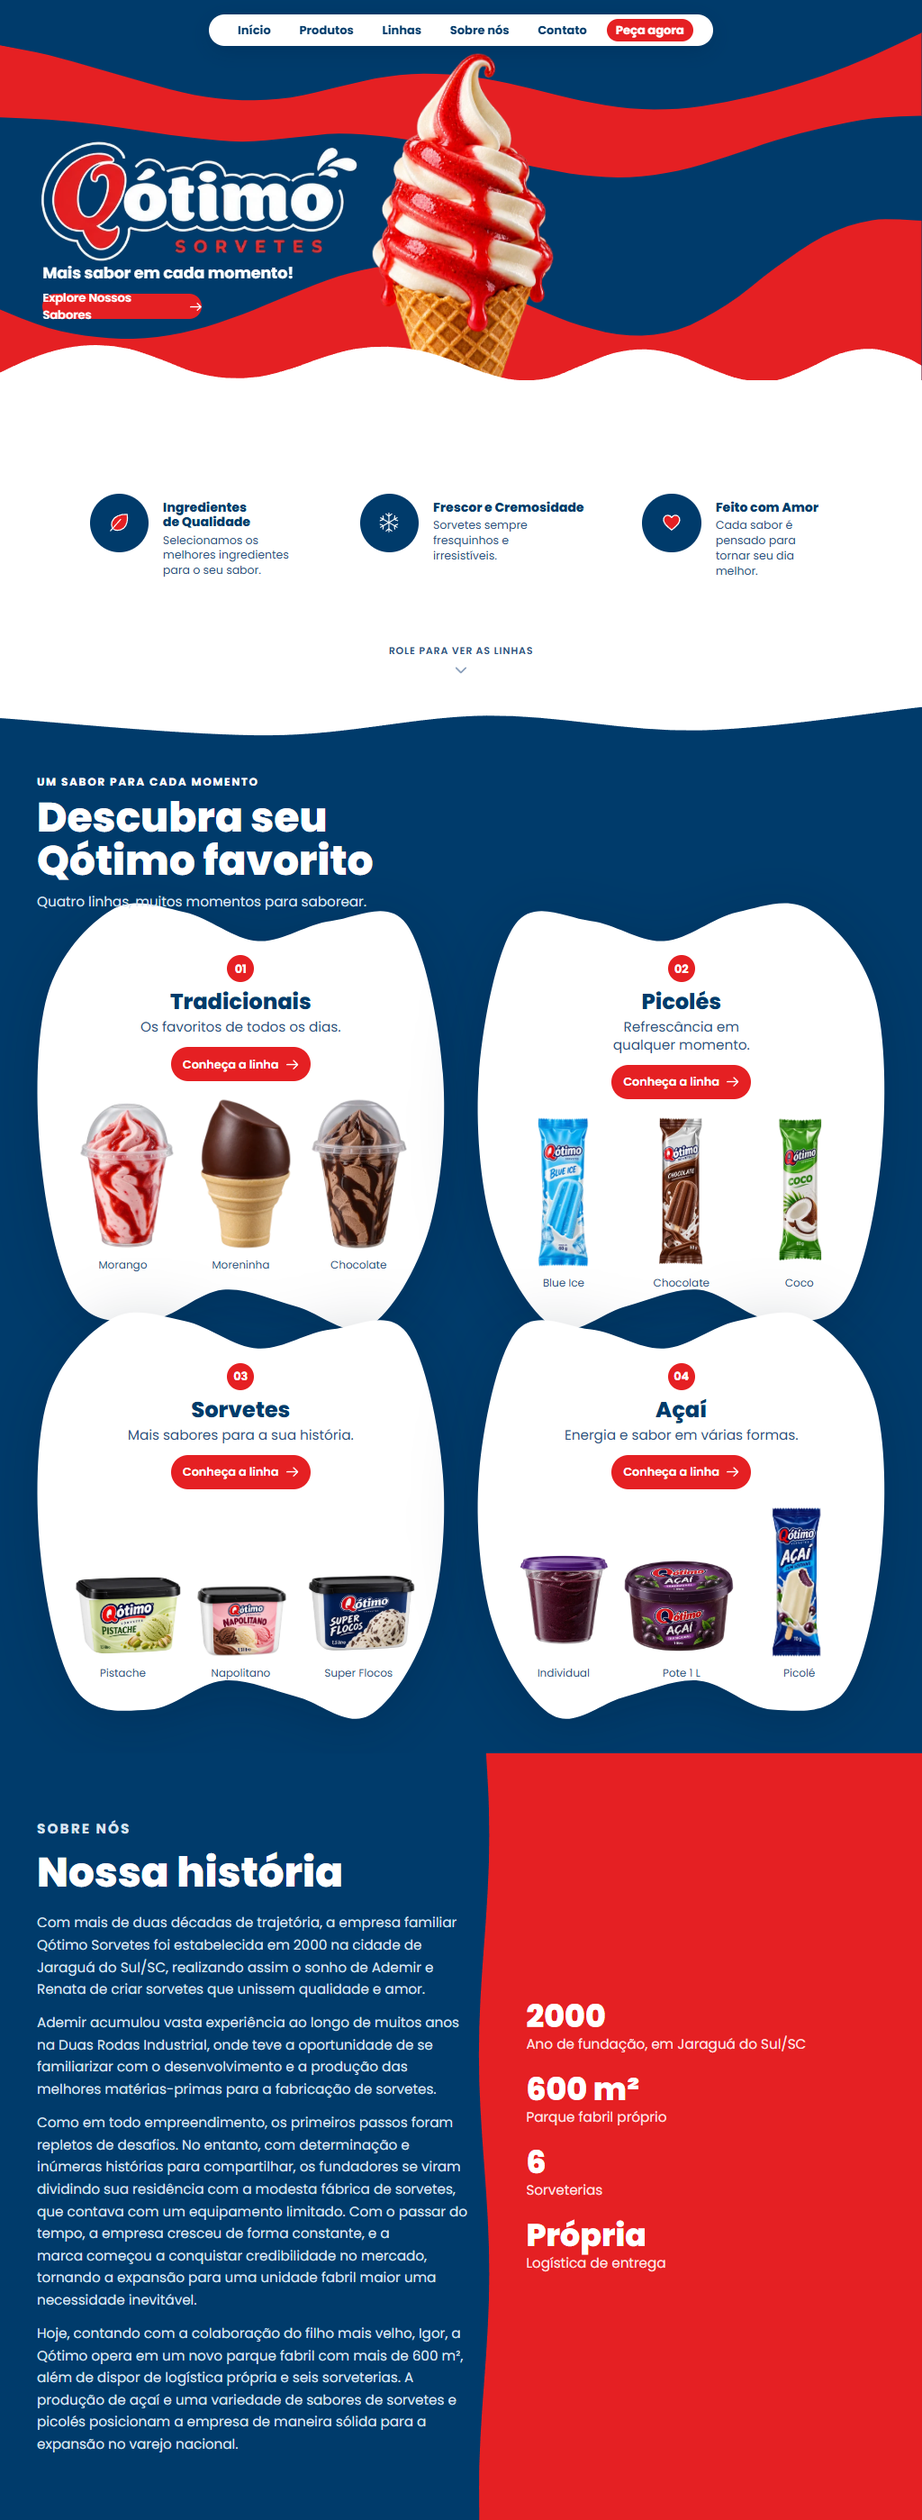
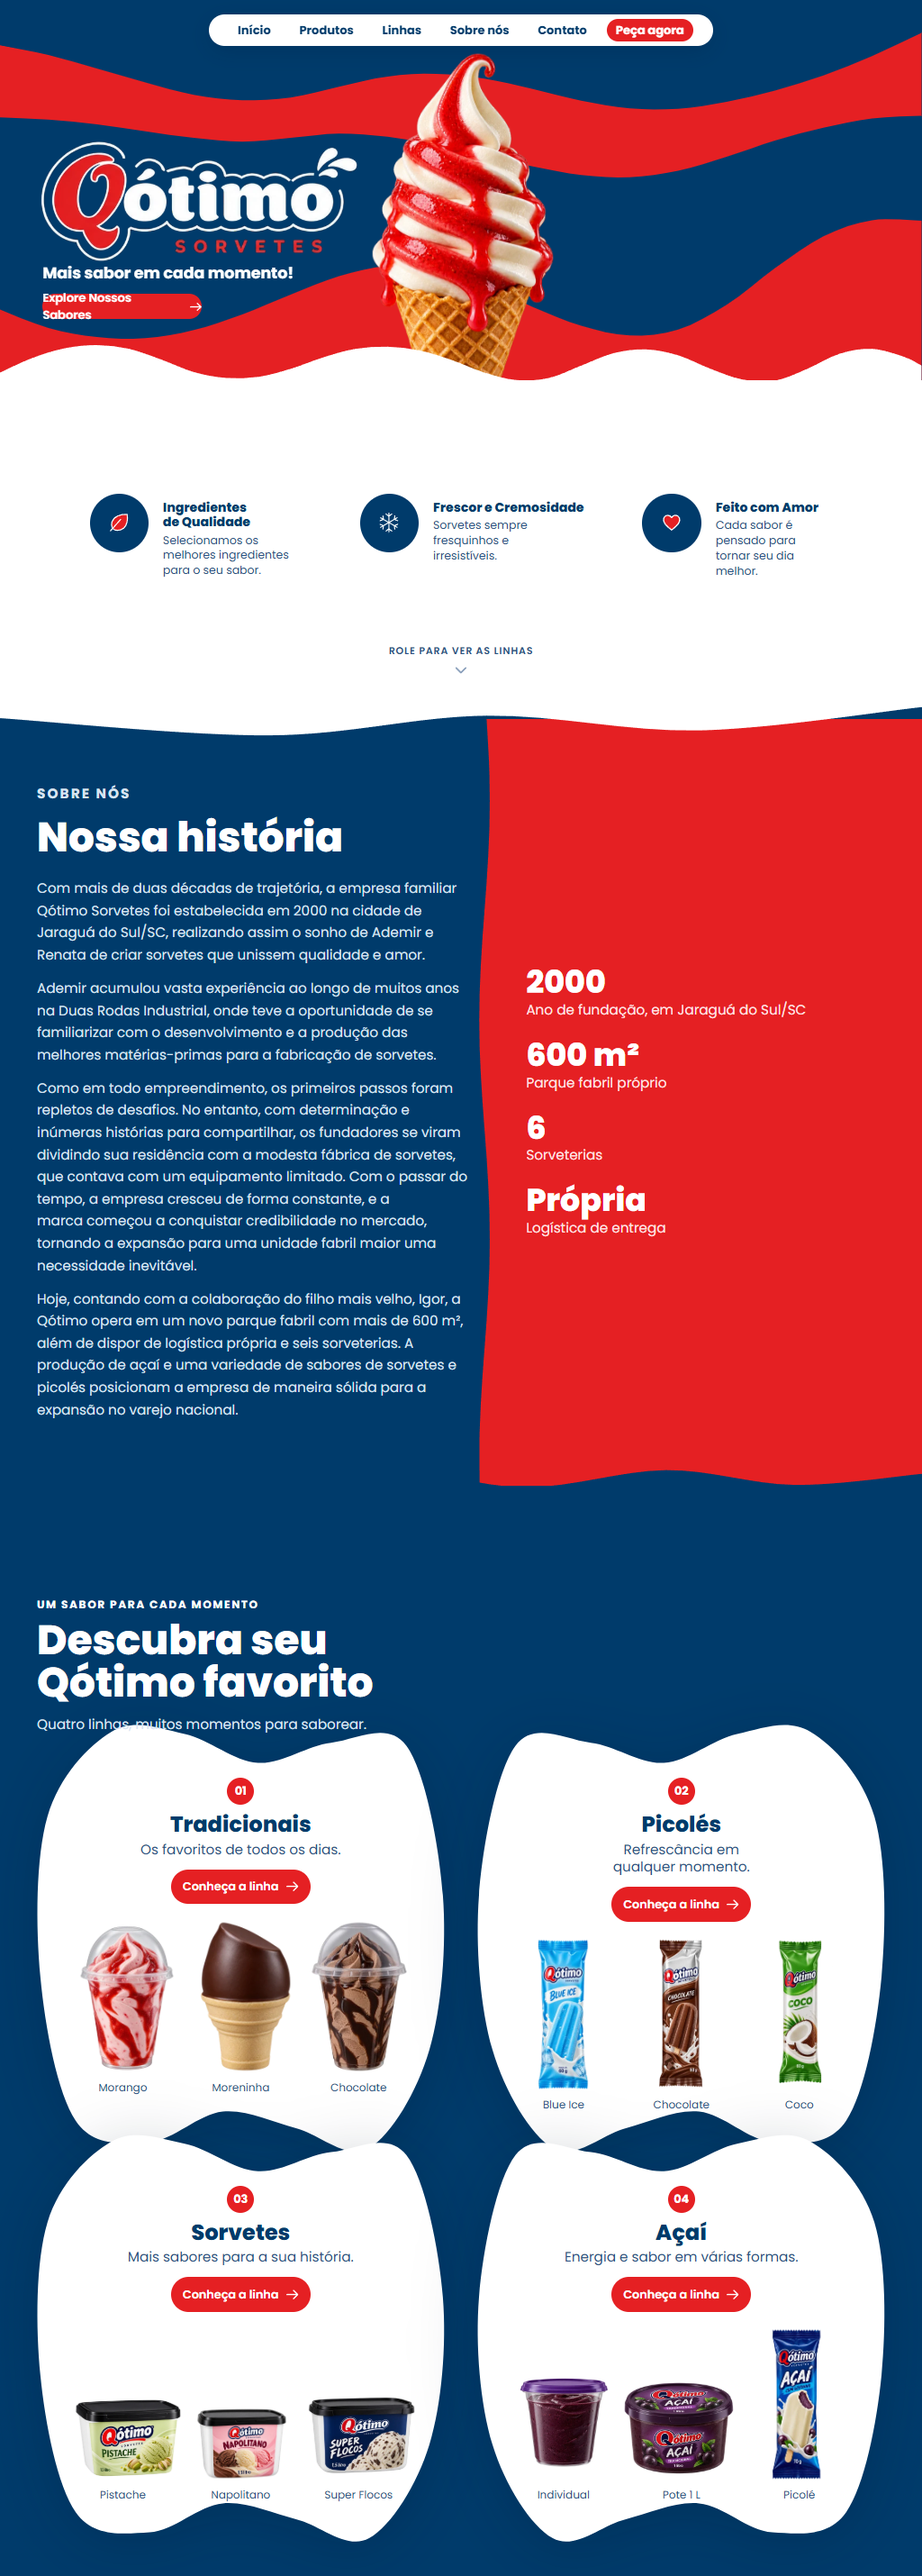
Sobre nos vai para o meio, entre o heroi e as Linhas
A secao mudou de lugar, e com ela as duas transicoes:

- A onda branca que ficava no topo das Linhas passou para o topo do
  Sobre, porque agora e ele que recebe a faixa branca dos pilares.
- O Sobre ganhou uma onda navy na base, senao o vermelho encostaria
  direto na secao Linhas com um corte reto.
- A emenda de 1px (margin-block-start:-1px) saiu das Linhas e foi para
  o Sobre, que e quem encosta na faixa branca agora.

Tambem apareceu um fio vertical na emenda entre a divisa ondulada e o
bloco vermelho — o mesmo problema de coordenada fracionaria da faixa
branca. Resolvido com 1px de sobreposicao.

O detector de emendas ganhou a checagem desse fio e as bordas do Sobre.
Ele estava medindo a viewport enquanto o print era so da dobra, entao
amostrava area branca fora da pagina e nunca falhava; passou a usar
print de pagina inteira com coordenadas absolutas. Com o detector
corrigido, o controle negativo acusa o fio em 9 das 60 combinacoes, e
com a correcao aplicada volta a 60 de 60 limpas.

Tabela-alvo do heroi: 31 de 31. Matriz de 14 resolucoes: MATRIZ OK.
Reduced-motion: OK.

diff --git a/site/index.html b/site/index.html
@@ -134,12 +134,63 @@
     </div>
   </section>
 
-  <!-- ===================== LINHAS ===================== -->
-  <section class="linhas" id="linhas" aria-labelledby="linhas-titulo">
+  <!-- ===================== SOBRE ===================== -->
+  <section class="sobre" id="sobre" aria-labelledby="sobre-titulo">
 
-    <svg class="linhas__onda" viewBox="0 0 1440 90" preserveAspectRatio="none" aria-hidden="true" focusable="false">
+    <!-- a metade vermelha: divisa ondulada na vertical (mesa) e
+         onda na horizontal quando empilha -->
+
+    <svg class="sobre__topo" viewBox="0 0 1440 90" preserveAspectRatio="none" aria-hidden="true" focusable="false">
       <path fill="#FFFFFF" d="M0 0L1440 0L1440 26C1381.7 32.3 1203.3 61.7 1090 64C976.7 66.3 871.7 38.7 760 40C648.3 41.3 546.7 71.3 420 72C293.3 72.7 70 48.7 0 44Z"/>
     </svg>
+
+    <div class="sobre__texto reveal">
+      <p class="sobre__eyebrow">Sobre nós</p>
+      <h2 class="sobre__titulo" id="sobre-titulo">Nossa história</h2>
+
+      <p>Com mais de duas décadas de trajetória, a empresa familiar Qótimo Sorvetes foi
+        estabelecida em 2000 na cidade de Jaraguá do Sul/SC, realizando assim o sonho de
+        Ademir e Renata de criar sorvetes que unissem qualidade e amor.</p>
+
+      <p>Ademir acumulou vasta experiência ao longo de muitos anos na Duas Rodas Industrial,
+        onde teve a oportunidade de se familiarizar com o desenvolvimento e a produção das
+        melhores matérias-primas para a fabricação de sorvetes.</p>
+
+      <p>Como em todo empreendimento, os primeiros passos foram repletos de desafios. No
+        entanto, com determinação e inúmeras histórias para compartilhar, os fundadores se
+        viram dividindo sua residência com a modesta fábrica de sorvetes, que contava com um
+        equipamento limitado. Com o passar do tempo, a empresa cresceu de forma constante, e a
+        marca começou a conquistar credibilidade no mercado, tornando a expansão para uma
+        unidade fabril maior uma necessidade inevitável.</p>
+
+      <p>Hoje, contando com a colaboração do filho mais velho, Igor, a Qótimo opera em um novo
+        parque fabril com mais de 600 m², além de dispor de logística própria e seis
+        sorveterias. A produção de açaí e uma variedade de sabores de sorvetes e picolés
+        posicionam a empresa de maneira sólida para a expansão no varejo nacional.</p>
+    </div>
+
+    <div class="sobre__vermelho reveal">
+      <svg class="sobre__divisa" viewBox="0 0 120 1000" preserveAspectRatio="none" aria-hidden="true" focusable="false">
+      <path fill="#E52023" d="M65.1 0C66.2 11.9 70.9 47.6 72 71.4C73.2 95.2 73.2 119 72 142.9C70.8 166.7 67.7 190.5 64.9 214.3C62 238.1 57.8 261.9 54.9 285.7C52.1 309.5 49.1 333.3 48 357.1C46.8 381 46.8 404.8 48 428.6C49.2 452.4 52.3 476.2 55.1 500C58 523.8 62.2 547.6 65.1 571.4C67.9 595.2 70.9 619 72 642.9C73.2 666.7 73.2 690.5 72 714.3C70.8 738.1 67.7 761.9 64.9 785.7C62 809.5 57.8 833.3 54.9 857.1C52.1 881 49.1 904.8 48 928.6C46.8 952.4 48 988.1 48 1000L120 1000L120 0Z"/>
+    </svg>
+      <svg class="sobre__onda" viewBox="0 0 1440 90" preserveAspectRatio="none" aria-hidden="true" focusable="false">
+        <path fill="#E52023" d="M0 46C30 40.7 116.7 13 180 14C243.3 15 310 51.3 380 52C450 52.7 526.7 18.7 600 18C673.3 17.3 746.7 47.7 820 48C893.3 48.3 970 20.7 1040 20C1110 19.3 1173.3 43 1240 44C1306.7 45 1406.7 29 1440 26L1440 90L0 90Z"/>
+      </svg>
+      <ul class="marcos">
+      <li><strong>2000</strong><span>Ano de fundação, em Jaraguá do Sul/SC</span></li>
+      <li><strong>600 m²</strong><span>Parque fabril próprio</span></li>
+      <li><strong>6</strong><span>Sorveterias</span></li>
+        <li><strong>Própria</strong><span>Logística de entrega</span></li>
+      </ul>
+    </div>
+
+    <svg class="sobre__base" viewBox="0 0 1440 90" preserveAspectRatio="none" aria-hidden="true" focusable="false">
+      <path fill="#003B6B" d="M0 46C30 40.7 116.7 13 180 14C243.3 15 310 51.3 380 52C450 52.7 526.7 18.7 600 18C673.3 17.3 746.7 47.7 820 48C893.3 48.3 970 20.7 1040 20C1110 19.3 1173.3 43 1240 44C1306.7 45 1406.7 29 1440 26L1440 90L0 90Z"/>
+    </svg>
+  </section>
+
+  <!-- ===================== LINHAS ===================== -->
+  <section class="linhas" id="linhas" aria-labelledby="linhas-titulo">
 
     <div class="linhas__inner">
 
@@ -215,53 +266,6 @@
     </div>
   </section>
 
-
-  <!-- ===================== SOBRE ===================== -->
-  <section class="sobre" id="sobre" aria-labelledby="sobre-titulo">
-
-    <!-- a metade vermelha: divisa ondulada na vertical (mesa) e
-         onda na horizontal quando empilha -->
-
-    <div class="sobre__texto reveal">
-      <p class="sobre__eyebrow">Sobre nós</p>
-      <h2 class="sobre__titulo" id="sobre-titulo">Nossa história</h2>
-
-      <p>Com mais de duas décadas de trajetória, a empresa familiar Qótimo Sorvetes foi
-        estabelecida em 2000 na cidade de Jaraguá do Sul/SC, realizando assim o sonho de
-        Ademir e Renata de criar sorvetes que unissem qualidade e amor.</p>
-
-      <p>Ademir acumulou vasta experiência ao longo de muitos anos na Duas Rodas Industrial,
-        onde teve a oportunidade de se familiarizar com o desenvolvimento e a produção das
-        melhores matérias-primas para a fabricação de sorvetes.</p>
-
-      <p>Como em todo empreendimento, os primeiros passos foram repletos de desafios. No
-        entanto, com determinação e inúmeras histórias para compartilhar, os fundadores se
-        viram dividindo sua residência com a modesta fábrica de sorvetes, que contava com um
-        equipamento limitado. Com o passar do tempo, a empresa cresceu de forma constante, e a
-        marca começou a conquistar credibilidade no mercado, tornando a expansão para uma
-        unidade fabril maior uma necessidade inevitável.</p>
-
-      <p>Hoje, contando com a colaboração do filho mais velho, Igor, a Qótimo opera em um novo
-        parque fabril com mais de 600 m², além de dispor de logística própria e seis
-        sorveterias. A produção de açaí e uma variedade de sabores de sorvetes e picolés
-        posicionam a empresa de maneira sólida para a expansão no varejo nacional.</p>
-    </div>
-
-    <div class="sobre__vermelho reveal">
-      <svg class="sobre__divisa" viewBox="0 0 120 1000" preserveAspectRatio="none" aria-hidden="true" focusable="false">
-      <path fill="#E52023" d="M65.1 0C66.2 11.9 70.9 47.6 72 71.4C73.2 95.2 73.2 119 72 142.9C70.8 166.7 67.7 190.5 64.9 214.3C62 238.1 57.8 261.9 54.9 285.7C52.1 309.5 49.1 333.3 48 357.1C46.8 381 46.8 404.8 48 428.6C49.2 452.4 52.3 476.2 55.1 500C58 523.8 62.2 547.6 65.1 571.4C67.9 595.2 70.9 619 72 642.9C73.2 666.7 73.2 690.5 72 714.3C70.8 738.1 67.7 761.9 64.9 785.7C62 809.5 57.8 833.3 54.9 857.1C52.1 881 49.1 904.8 48 928.6C46.8 952.4 48 988.1 48 1000L120 1000L120 0Z"/>
-    </svg>
-      <svg class="sobre__onda" viewBox="0 0 1440 90" preserveAspectRatio="none" aria-hidden="true" focusable="false">
-        <path fill="#E52023" d="M0 46C30 40.7 116.7 13 180 14C243.3 15 310 51.3 380 52C450 52.7 526.7 18.7 600 18C673.3 17.3 746.7 47.7 820 48C893.3 48.3 970 20.7 1040 20C1110 19.3 1173.3 43 1240 44C1306.7 45 1406.7 29 1440 26L1440 90L0 90Z"/>
-      </svg>
-      <ul class="marcos">
-      <li><strong>2000</strong><span>Ano de fundação, em Jaraguá do Sul/SC</span></li>
-      <li><strong>600 m²</strong><span>Parque fabril próprio</span></li>
-      <li><strong>6</strong><span>Sorveterias</span></li>
-        <li><strong>Própria</strong><span>Logística de entrega</span></li>
-      </ul>
-    </div>
-  </section>
 
 </main>
 

diff --git a/site/styles.css b/site/styles.css
@@ -326,19 +326,10 @@ body>*{--u:min(100cqw / 1713, 100svh / 918, 1.25px)}
 
 .linhas{
   position:relative;
-  margin-block-start:-1px;      /* mesma emenda, mesmo tratamento */
   overflow:hidden;
   background:var(--navy);
   padding-block:clamp(70px,9vw,150px) clamp(48px,6vw,104px);
   isolation:isolate;
-}
-
-/* Fundo de uma cor so. A passagem do branco dos pilares para o azul e
-   feita por uma onda, nao por uma linha reta. */
-.linhas__onda{
-  position:absolute;inset-block-start:0;inset-inline:0;z-index:0;
-  display:block;
-  width:100%;height:clamp(40px,6vw,96px);
 }
 
 .linhas__inner{
@@ -493,6 +484,7 @@ body>*{--u:min(100cqw / 1713, 100svh / 918, 1.25px)}
 
 .sobre{
   position:relative;
+  margin-block-start:-1px;      /* emenda com a faixa branca do heroi */
   overflow:hidden;
   background:var(--navy);
   display:grid;
@@ -502,6 +494,20 @@ body>*{--u:min(100cqw / 1713, 100svh / 918, 1.25px)}
   padding:clamp(56px,7vw,120px) var(--gutter);
   isolation:isolate;
 }
+
+/* transicoes: o branco dos pilares entra por cima, e a base volta a ser
+   azul para emendar com a secao Linhas sem corte reto */
+.sobre__topo,.sobre__base{
+  position:absolute;inset-inline:0;z-index:2;
+  display:block;
+  width:100%;height:clamp(40px,6vw,96px);
+  pointer-events:none;
+}
+.sobre__topo{inset-block-start:0}
+.sobre__base{inset-block-end:0}
+
+/* o conteudo precisa ficar longe das duas ondas */
+.sobre{padding-block:clamp(96px,10vw,180px)}
 
 /* O bloco vermelho vai da coluna ate a borda direita da tela; a divisa e
    uma faixa estreita colada na esquerda dele, que desenha so a ondulacao.
@@ -518,8 +524,11 @@ body>*{--u:min(100cqw / 1713, 100svh / 918, 1.25px)}
 .sobre__divisa{
   position:absolute;z-index:0;
   inset-block:0;
-  inset-inline-end:100%;
-  width:clamp(44px,5.2vw,96px);height:100%;
+  /* 1px de sobreposicao com o bloco: sem isso a emenda cai em coordenada
+     fracionaria e aparece um fio vertical, como ja tinha acontecido na
+     faixa branca do heroi */
+  inset-inline-end:calc(100% - 1px);
+  width:calc(clamp(44px,5.2vw,96px) + 1px);height:100%;
   max-width:none;
 }
 .sobre__onda{display:none}
